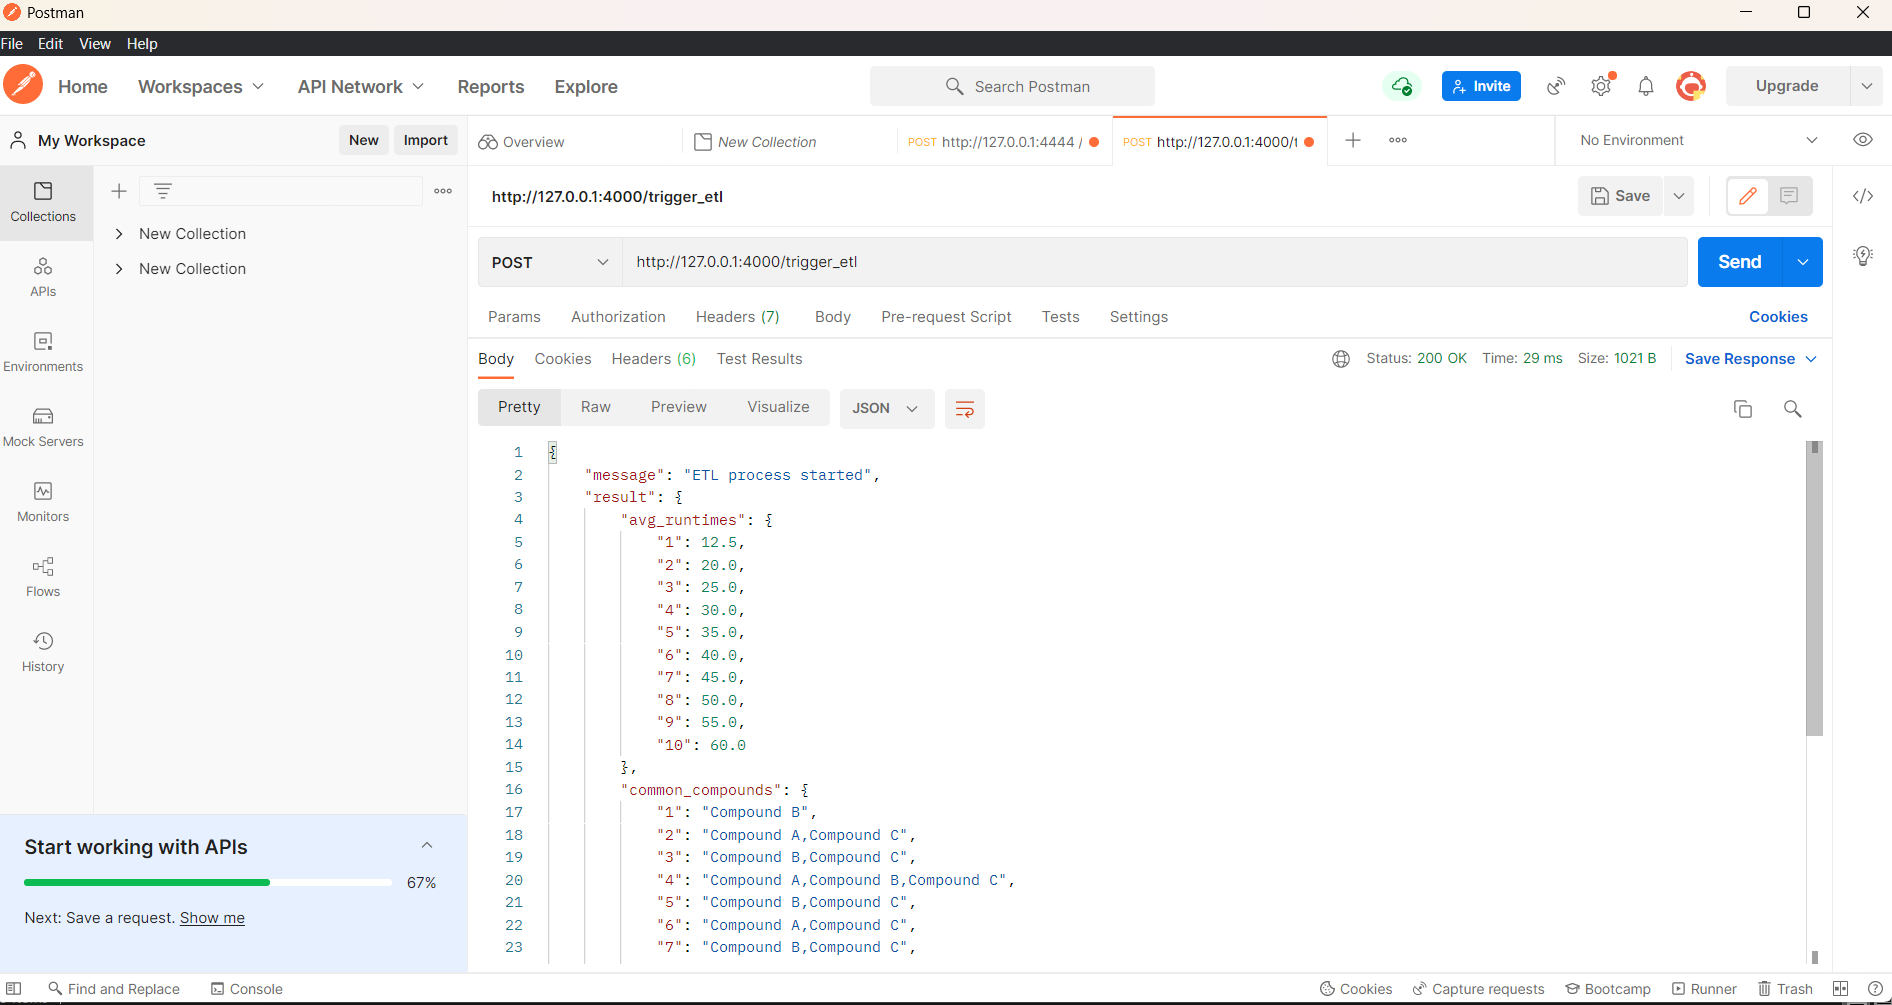
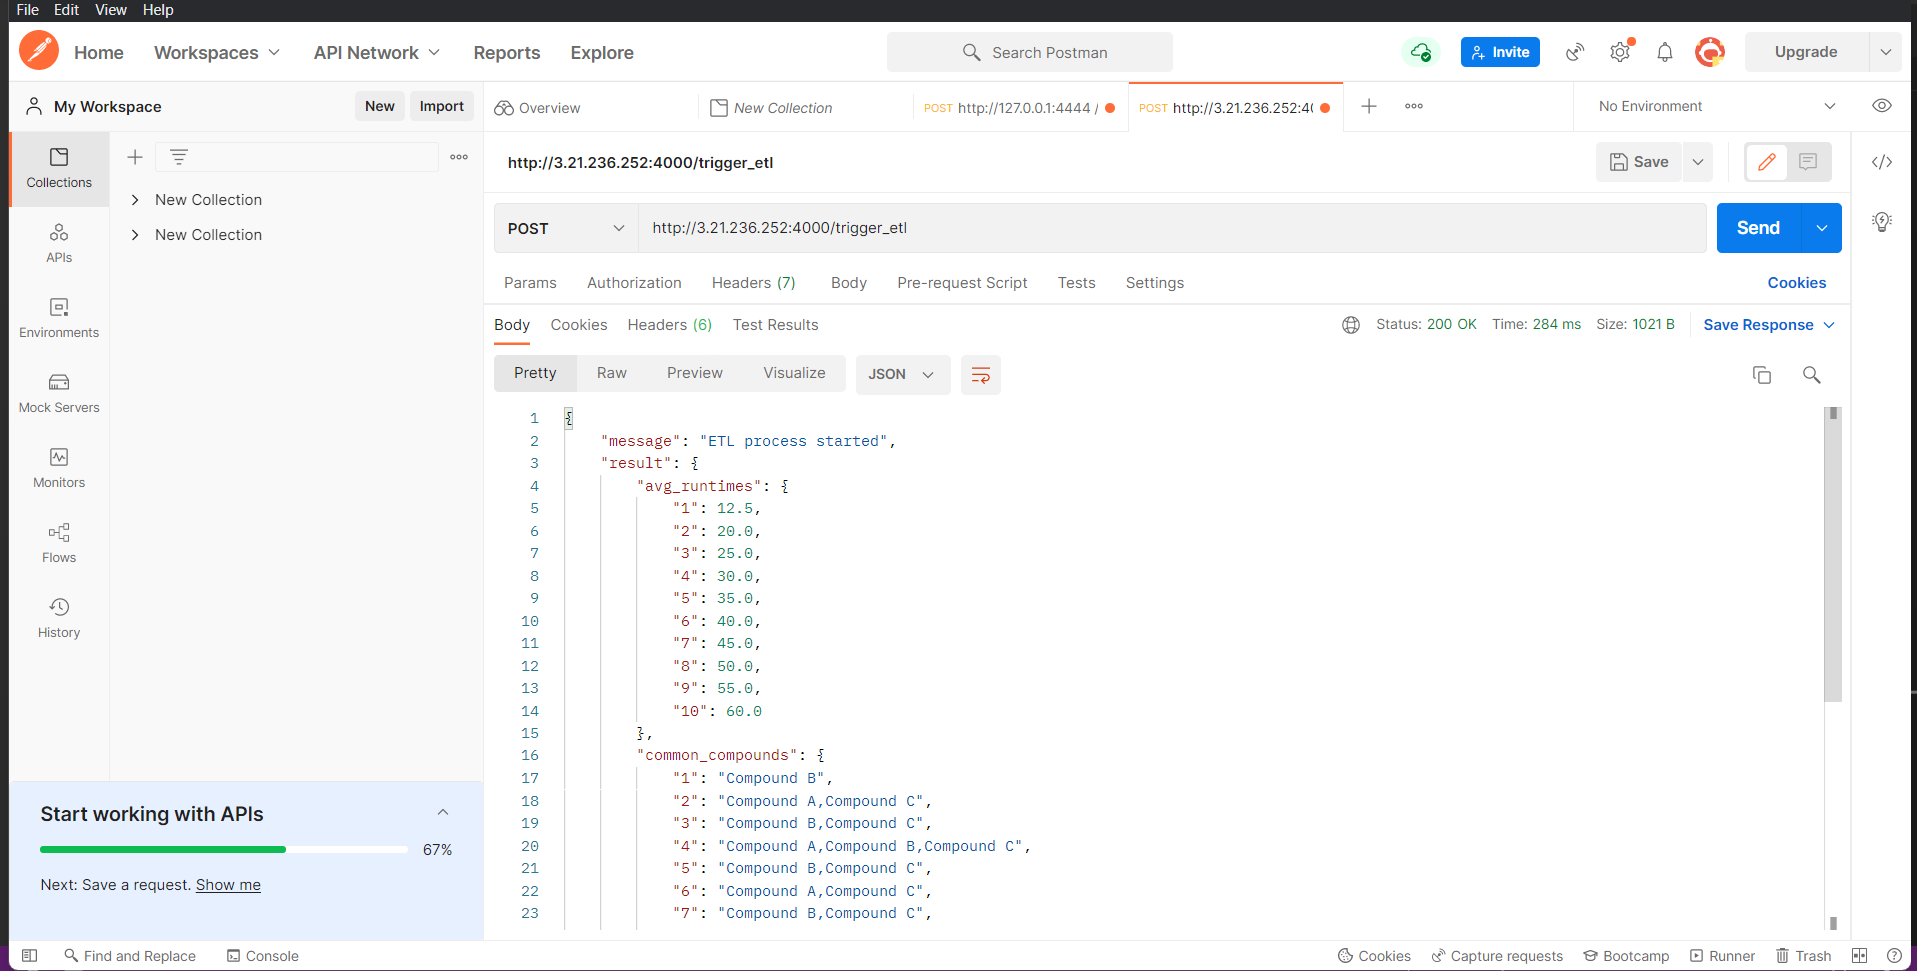
added the readme.md

diff --git a/database_ops/connection.py b/database_ops/connection.py
@@ -7,6 +7,8 @@ Created on Thu Jun  1 00:29:59 2023
 
 
 from sqlalchemy import create_engine
+#connection_string ="postgresql://sathesaurabh30:HF32LKiPgJfS@ep-summer-butterfly-378832.us-east-2.aws.neon.tech/neondb"
+connection_string = "postgresql://sathesaurabh30:HF32LKiPgJfS@ep-summer-butterfly-378832-pooler.us-east-2.aws.neon.tech/swe-backend"
 
 try:
     engine =create_engine(connection_string)

diff --git a/README.md b/README.md
@@ -1,61 +1,29 @@
-# Backend Engineering Take-Home Challenge
 
-### Introduction
-In this challenge, you will be tasked with creating a simple ETL pipeline that can be triggered via an API call. You will be provided with a set of CSV files that you will need to process, derive some features from, and then upload into a database table.
-
-### Requirements
-- Python 3.7+
-- Docker
-- PostgreSQL
-
-### Challenge
-1.  Create a Dockerized application that can be started with a single `docker run` command.
-
-2. The application should expose an API endpoint that triggers an ETL process.
-
-3. The ETL process should:
-- Load CSV files from the given data directory.
- - Process these files to derive some simple features.
- - Upload the processed data into a **postgres** table.
-
-4.  The application should be built using Python and any tooling you like for coordinating the workflow and fronting the api server
-
-### Data
-You will find three CSV files in the `data`  directory:
-
-- `users.csv`: Contains user data with the following columns: `user_id`, `name`, `email`,`signup_date`.
-
-- `user_experiments.csv`: Contains experiment data with the following columns: `experiment_id`, `user_id`, `experiment_compound_ids`, `experiment_run_time`. The `experiment_compound_ids` column contains a semicolon-separated list of compound IDs.
+## Submission
+The current submission has the Dockerfile and requirements.txt required to run this project. 
+The code has been developed as per my understanding of the questions. I had a lot of questions regarding the assignment given which I would love to ask if the opportunity given
 
 
-- `compounds.csv`: Contains compound data with the following columns: `compound_id`, `compound_name`, `compound_structure`.
+## Technical Requirements
+In order to run this project the host machine needs the Docker system to allow Docker container to be deployed and run
+
+## Add PostgresSQL db connection string
+There is a folder called database_ops in the home directory of the project. In this folder there is a connection.py file. This connection.py file has a connection_string variable. We need to assign the connection string in this variable
 
 
-## Feature Derivation
-From the provided CSV files, derive the following features:
 
-1. Total experiments a user ran.
-2. Average experiments amount per user.
-3. User's most commonly experimented compound.
-
-## Deliverables
-Please provide the following in a GITHUB REPOSITORY.
-
-1. A Dockerfile that sets up the environment for your application.
-2. A requirements.txt file with all the Python dependencies.
-3. A Python script that sets up the API and the ETL process.
-4. A brief README explaining how to build and run your application, and how to trigger the ETL process.
+## Docker commands to build and run this applcation
+sudo docker build --tag eikon-app .
+sudo docker run -dp 4000:4000 eikon-app
 
 
-Please also provide a script that builds, and runs the docker container. 
-You should also provide a script that scaffolds how a user can run the ETL process. This can be `curl` or something else.
-Finally, provide a script that queries the database and showcases that it has been populated with the desired features.
+## Triggering the ETL
+The api developed is a post api which runs the ETL pipeline. Its running on the 4000 port of the host machine. It returns the derived features as response. An example would be the following POST request
+http://3.21.236.252:4000/trigger_etl
 
 
-## Evaluation
-Your solution will be evaluated on the following criteria:
 
-Code quality and organization.
-Proper use of Python and Docker.
-Successful execution of the ETL process.
-Accuracy of the derived features.
+
+
+
+
